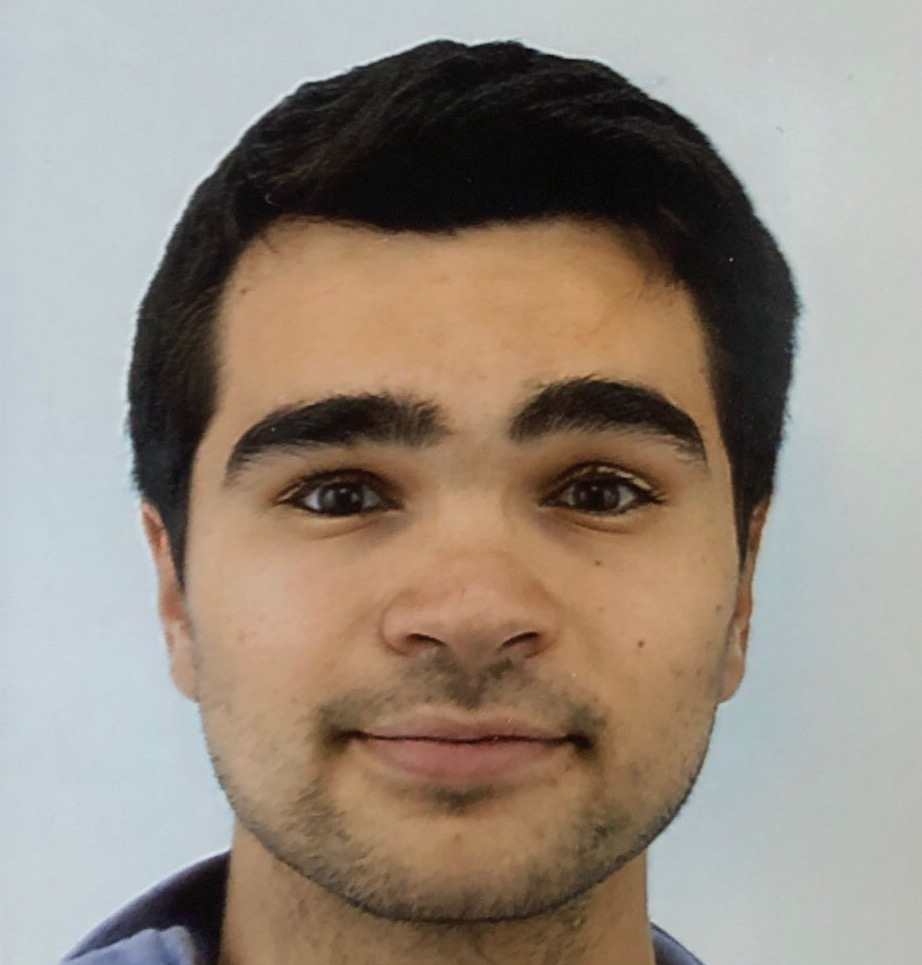
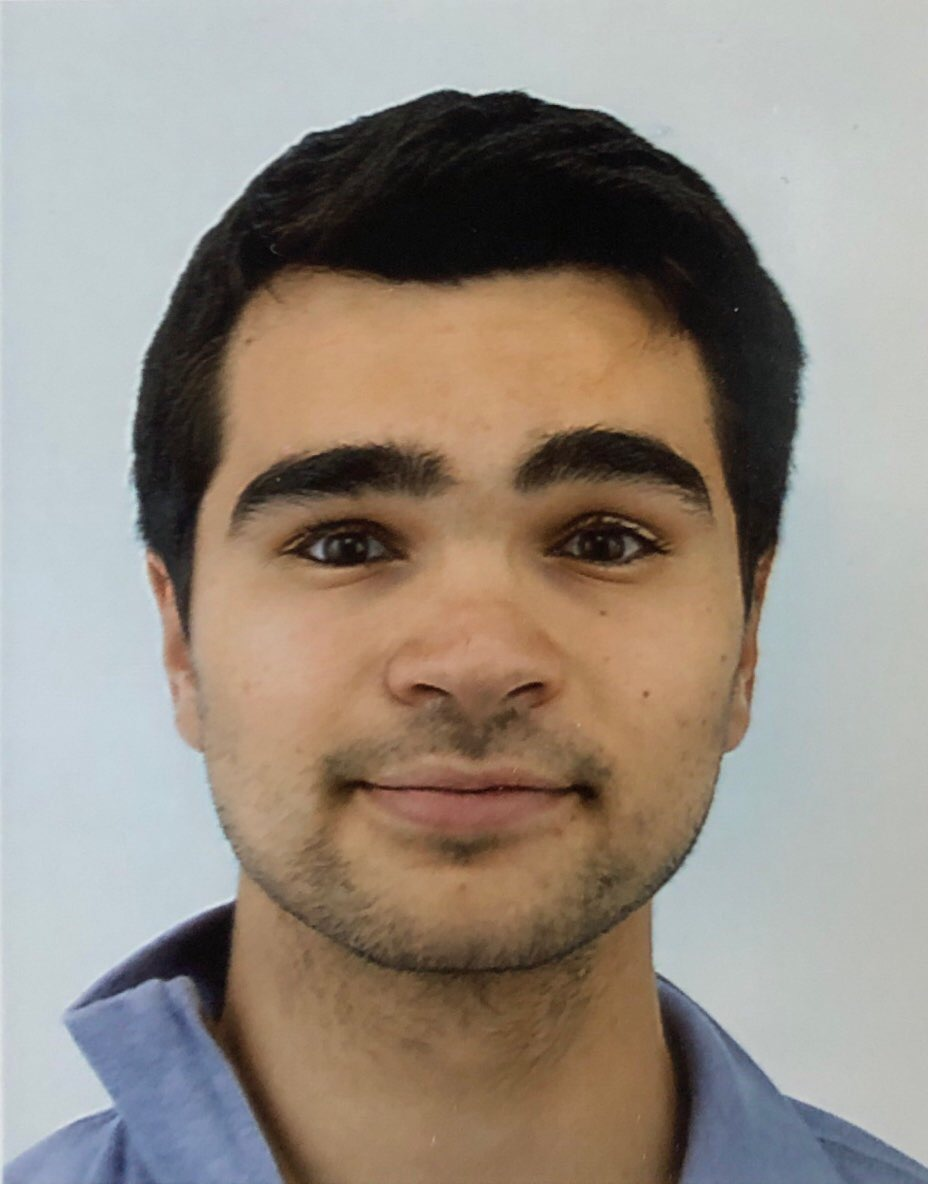
Updated picture in about tab (other was blurry)

diff --git a/about.html b/about.html
@@ -98,7 +98,7 @@
 	<h2 id="keyfindings">Key findings</h2>
 
 	<p>From this work (Chaplin-Kramer et al, in review), we find that where humanity’s needs for nature are now greatest, nature’s ability to meet those needs is declining. Billions of people face higher water pollution and insufficient pollination for nutrition under future scenarios of land use and climate change, particularly in Africa and South Asia. Hundreds of millions of people face heightened coastal risk across Africa, Eurasia, and the Americas. Continued loss of nature poses severe threats, yet these can be reduced 3- to 10-fold under a sustainable development scenario.</p>
-      
+
 </div>
 <div class="w3-row-padding w3-theme-l1">
 
@@ -138,8 +138,8 @@
 			  <div class="center w3-text-grey"><i>Visualization lead</i></div>
 			  <h3 class="icon-row w3-center">
 		          <a class="inline-icon" href="mailto:weilcharlotte@gmail.com">
-		            <i class="zmdi zmdi-email"></i></a> 
-		          <a class="inline-icon" href="https://medium.com/@charlotteweil" target="_blank"><i class="zmdi zmdi-library"></i></a> 
+		            <i class="zmdi zmdi-email"></i></a>
+		          <a class="inline-icon" href="https://medium.com/@charlotteweil" target="_blank"><i class="zmdi zmdi-library"></i></a>
 		          <a class="inline-icon" href="https://github.com/charlottegiseleweil" target="_blank"><i class="zmdi zmdi-github"></i></a>
 		          <a class="inline-icon" href="https://twitter.com/charlotte_weil" target="_blank"><i class="zmdi zmdi-twitter"></i></a>
 		          <a class="inline-icon" href="https://www.linkedin.com/in/charlotteweil" target="_blank"><i class="zmdi zmdi-linkedin"></i></a>
@@ -147,7 +147,7 @@
 			</div>
 
 			<div class="w3-third">
-			  <img src="viz/images/peeps/aa.jpg" alt="Pic" style="width:45%; " class="w3-circle w3-hover-opacity">
+			  <img src="viz/images/peeps/aa.jpg" alt="Pic" style="width:35%; " class="w3-circle w3-hover-opacity">
 			  <h3>Ahmed Ahres</h3>
 			  <div class="center w3-text-grey">
 			  	<i>Developer & Responsiveness Master</i></div>
@@ -176,7 +176,7 @@
 			</div>
 
 	</div>
-	
+
 	<div class="w3-container w3-center w3-text-light-grey" style="padding-left: 5vw; padding-top: 1vh;">
 
 
@@ -226,7 +226,7 @@
 
 
 
-	
+
 
 	<h2>Science contributors</h2>
 	<p>Correspondence to <a href="bchaplin@stanford.edu">bchaplin@stanford.edu</a></p>
